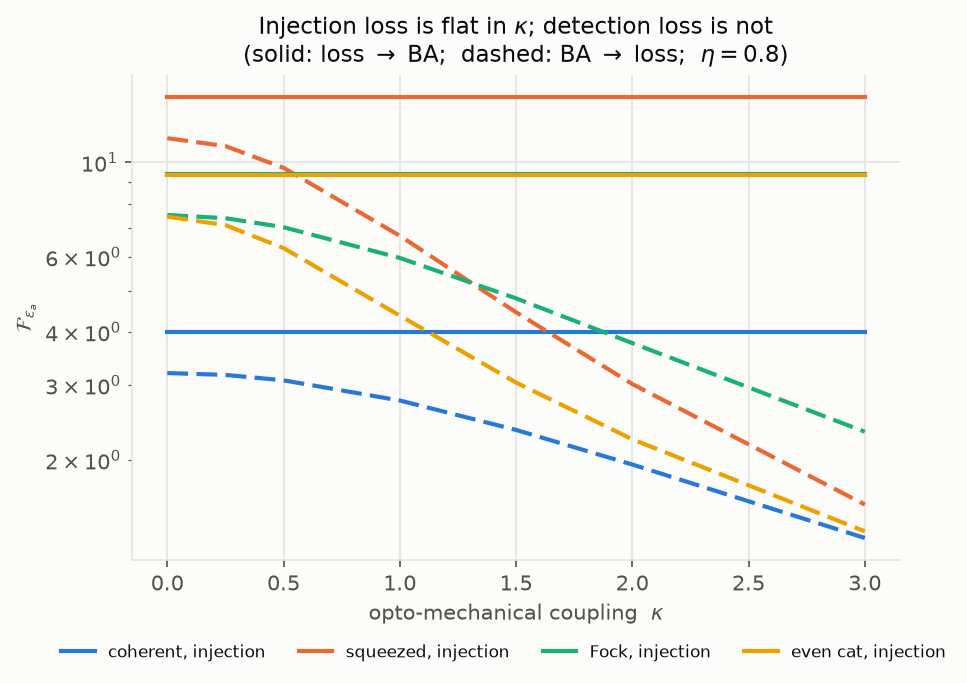
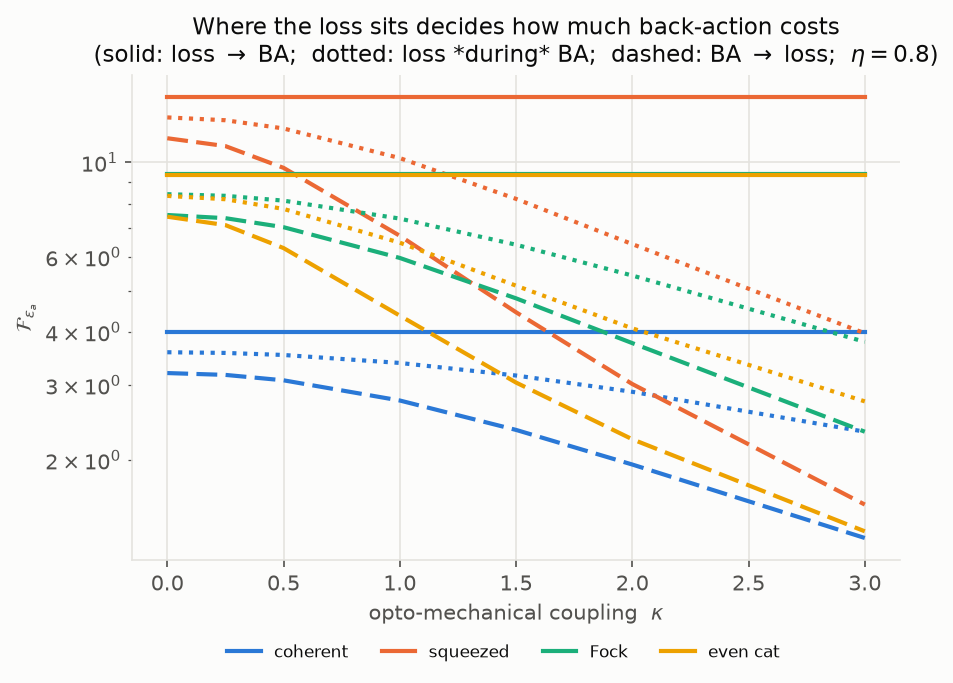
Report concurrent-loss results
Full run with concurrent (in-channel) loss included.  491 convergence-checked
points, 4 unconverged and flagged.

Loss placement is now three-way, and concurrent loss lands between injection
and detection for every state -- as it should, since loss spread through the
interaction is partly before and partly after the shear.  For squeezed vacuum
at eta = 0.8 across kappa 0 to 3: injection flat at 14.244, concurrent
12.754 -> 3.967, detection 11.395 -> 1.571.

The new section 2b is the one that changes the picture.  With loss acting
during the interaction the three orderings separate in the *physical* signal
quadrature, and BA3 is bracketed by BA1 and BA2 in all nine cases, by up to a
factor 6 at kappa = 3.  That is the behaviour the project plan describes; the
earlier collapse to a single number was an artefact of idealising loss into
separate stages.  Two structural features fall out: BA2 is exactly flat in
kappa, because there the whole shear lands after the lossy sensing and is a
QFI-preserving unitary applied last, and BA1 is the worst case, because the
shear acts before any of the loss.

Three of the four unconverged points are squeezed vacuum at kappa = 3 under
concurrent loss, capped at N_basis = 340 with last relative changes of 1.1e-3
and 4.6e-3 -- good to about three digits rather than six.  The concurrent path
carries a lower cap because it costs more per cutoff; raising it is a pure
compute question.
[…]

diff --git a/backaction-qfi/make_figures.py b/backaction-qfi/make_figures.py
@@ -226,7 +226,7 @@ def fig_concurrent_orderings(d, out):
                 ax.set_xlabel(r"$\kappa$")
                 ax.set_title(LABELS[st])
             axes[0].set_ylabel(r"$\mathcal{F}_{\epsilon_a}$")
-            fig.suptitle(r"Loss acting *during* the interaction separates the orderings "
+            fig.suptitle(r"Loss acting $\it{during}$ the interaction separates the orderings "
                          r"($\eta_{\rm ch}=0.8$); BA3 stays bracketed", y=1.0)
             fig.subplots_adjust(wspace=0.12)
             legend_below(fig, axes[0], ncol=4)

diff --git a/backaction-qfi/README.md b/backaction-qfi/README.md
@@ -20,7 +20,7 @@ and noise staging. With `kappa = 0` it reproduces the original bit for bit.
 
 | | |
 |---|---|
-| **Channel** | BA1 (radiation pressure → displacement sensing), BA2 (sensing → radiation pressure), BA3 (simultaneous — the physical case), each with injection loss (loss → BA), detection loss (BA → loss) and phase noise (phase noise → BA → loss) |
+| **Channel** | BA1 (radiation pressure → displacement sensing), BA2 (sensing → radiation pressure), BA3 (simultaneous — the physical case), each with injection loss (loss → BA), concurrent loss (loss *during* BA), detection loss (BA → loss) and phase noise (phase noise → BA → loss) |
 | **States** | coherent, squeezed, even/odd cat, squeezed cat, Fock — all at fixed mean photon number ⟨n⟩ |
 | **Reported** | QFI per configuration, and the ⟨n⟩ scaling exponent |
 
@@ -71,6 +71,14 @@ throughout. `ε_p` drives `√2 p̂` and is used only as a deliberately
 non-commuting reference. Convert to the dimensionless displacement `λ` with
 `F_λ = F_{ε_a} / 2`.
 
+Concurrent loss and dephasing have no single closed-form map, so they are
+evolved by Strang splitting with one Richardson step — the splitting error is
+cleanly `O(1/n²)` (measured: the error falls by exactly 4.00 per doubling of
+`n`), which the extrapolation turns into `O(1/n⁴)`. That agrees with `mesolve`
+to 1e-6 across 36 state/config/ordering comparisons and is what makes the case
+affordable at all: the integrator costs 4.5 s at `N_basis = 160` and scales as
+an N²-dimensional Liouvillian. `sigma_a`/`sigma_p` still use the integrator.
+
 Loss uses the group's own `loss_to_kappa`; phase noise uses `phirms_to_chi`.
 Both are applied as closed-form maps by default (`solver="exact"`), which agree
 with the `mesolve` integrator to 1e-10 — `solver="mesolve"` still runs the
@@ -105,13 +113,9 @@ whole output density matrix is identical across the three orderings, not just
 the QFI (max `|ρᵢ − ρⱼ|` ≈ 4e−16). It survives `eta_in`/`eta_out` and
 `pn_in`/`pn_out` because those act strictly before or after the interaction.
 
-**It does not survive dissipation acting *during* the interaction.** With
-`eta_ch` or `pn_ch` the Lindblad operators (`a`, `n̂`) do not commute with the
-shear, and the orderings separate even for `ε_a` — at `eta_ch = 0.8`, κ = 1.5,
-an even cat at ⟨n⟩ = 2 gives BA1 3.402, BA2 8.343, BA3 5.133, with BA3 again
-bracketed. Every result in this report uses stage-separated loss
-(`eta_in`/`eta_out`), so the equality holds throughout; concurrent loss is the
-more realistic model and is the obvious next thing to run.
+**It does not survive dissipation acting *during* the interaction** — see
+§2b, where the orderings separate by up to 6× and BA3 is bracketed by BA1
+and BA2, which is the behaviour the project plan describes.
 
 **The bounding picture belongs to the non-commuting case.** Estimating `ε_p`
 instead separates the orderings by 48×, and BA3 is then bracketed:
@@ -130,12 +134,17 @@ is redundant — one suffices. With concurrent loss it is not.
 
 `results/loss_placement.csv`, η = 0.8, κ = 0 → 3.
 
-| state | injection (loss → BA) | detection (BA → loss) |
-|---|---|---|
-| squeezed | 14.244 → **14.244** (flat) | 11.395 → 1.571 (÷7.3) |
-| even cat | 9.318 → **9.318** (flat) | 7.455 → 1.360 (÷5.5) |
-| Fock | 9.404 → **9.404** (flat) | 7.524 → 2.330 (÷3.2) |
-| coherent | 4.000 → **4.000** (flat) | 3.200 → 1.311 (÷2.4) |
+| state | injection (loss → BA) | concurrent (loss *during* BA) | detection (BA → loss) |
+|---|---|---|---|
+| squeezed | 14.244 → **14.244** (flat) | 12.754 → 3.967 (÷3.2) | 11.395 → 1.571 (÷7.3) |
+| even cat | 9.318 → **9.318** (flat) | 8.343 → 2.746 (÷3.0) | 7.455 → 1.360 (÷5.5) |
+| Fock | 9.404 → **9.404** (flat) | 8.420 → 3.789 (÷2.2) | 7.524 → 2.330 (÷3.2) |
+| coherent | 4.000 → **4.000** (flat) | 3.581 → 2.330 (÷1.5) | 3.200 → 1.311 (÷2.4) |
+
+Concurrent loss lands **between** the two extremes for every state — as it
+should, since loss spread through the interaction is partly "before" and partly
+"after" the shear. It is also the realistic model: in an interferometer the two
+processes are not separable in time.
 
 Injection loss gives a QFI **exactly independent of κ**: loss degrades the
 input, and the shear that follows is a unitary leaving the generator alone
@@ -150,6 +159,38 @@ F_{ε_a} = 2 · 2η / (1 + η(1−η) κ²)
 
 *Practical consequence:* readout-side loss is qualitatively worse than
 injection-side loss under back-action. A single "total loss" figure hides it.
+
+### 2b. Concurrent loss is where BA1 and BA2 really do bound BA3
+
+![concurrent orderings](results/fig6_concurrent_orderings.png)
+
+`results/concurrent_orderings.csv`, ⟨n⟩ = 2, `eta_ch = 0.8`.
+
+| state | κ | BA1 | BA2 | BA3 | spread | BA3 bracketed |
+|---|---|---|---|---|---|---|
+| squeezed | 0.5 | 10.867 | 12.754 | 12.015 | 1.89 | yes |
+| squeezed | 1.5 | 4.976 | 12.754 | 8.209 | 7.78 | yes |
+| squeezed | 3.0 | 1.760 | 12.754 | 3.967 | 10.99 | yes |
+| even cat | 3.0 | 1.522 | 8.343 | 2.746 | 6.82 | yes |
+| Fock | 3.0 | 2.608 | 8.420 | 3.789 | 5.81 | yes |
+
+**BA3 is bracketed in all 9 cases**, and the bracket is wide — a factor 6 at
+κ = 3 for squeezed vacuum. This is the configuration the project plan has in
+mind: once loss and radiation pressure overlap in time, where you put the shear
+genuinely matters, and the two sequential orderings are the extremes.
+
+Two structural features worth reading off:
+
+* **BA2 is exactly flat in κ** (12.754 at every κ for squeezed vacuum). In BA2
+  the whole shear lands *after* the lossy sensing, so it is a QFI-preserving
+  unitary applied last — the QFI cannot depend on κ at all. It is the best case,
+  and a useful internal check.
+* **BA1 is the worst case** — the full shear acts before any of the loss, so
+  every bit of the inflated `p` variance is exposed to it. BA3, spreading the
+  shear through the interaction, sits in between.
+
+So the ordering question is not academic after all; it was only degenerate
+because the earlier runs idealised loss into separate stages.
 
 ### 3. Phase noise → back-action → detection loss
 
@@ -269,10 +310,14 @@ the Fock track and is exact for Gaussian states:
 
 ## Caveats
 
-* **One unconverged point** of ~500: `squeezed` at ⟨n⟩ = 2, κ = 3,
-  `eta_out = 0.95`, capped at `N_basis = 700` with a last relative change of
-  5.6e−6. The value is good to ~1e−5 but missed the two-consecutive-rungs
-  criterion; the `converged` column flags it.
+* **Four unconverged points** of 491, all flagged in the `converged` column.
+  One is `squeezed` at ⟨n⟩ = 2, κ = 3, `eta_out = 0.95` (capped at
+  `N_basis = 700`, last relative change 5.6e−6 — good to ~1e−5, it just missed
+  the two-consecutive-rungs criterion). The other three are `squeezed` at κ = 3
+  under **concurrent** loss, capped at `N_basis = 340` with last relative
+  changes of 1.1e−3 and 4.6e−3, so those three numbers are good to about three
+  digits rather than six. The concurrent path carries a lower cutoff cap because
+  it costs more per cutoff; raising it is a pure compute question.
 * **Convention warning.** `conversions.r_to_var` returns `exp(−r²)`, not
   `exp(−2r)`; its docstring flags it as the optimisation code's convention, but
   it is inconsistent with `n_to_r` in the same module. The states here use the
